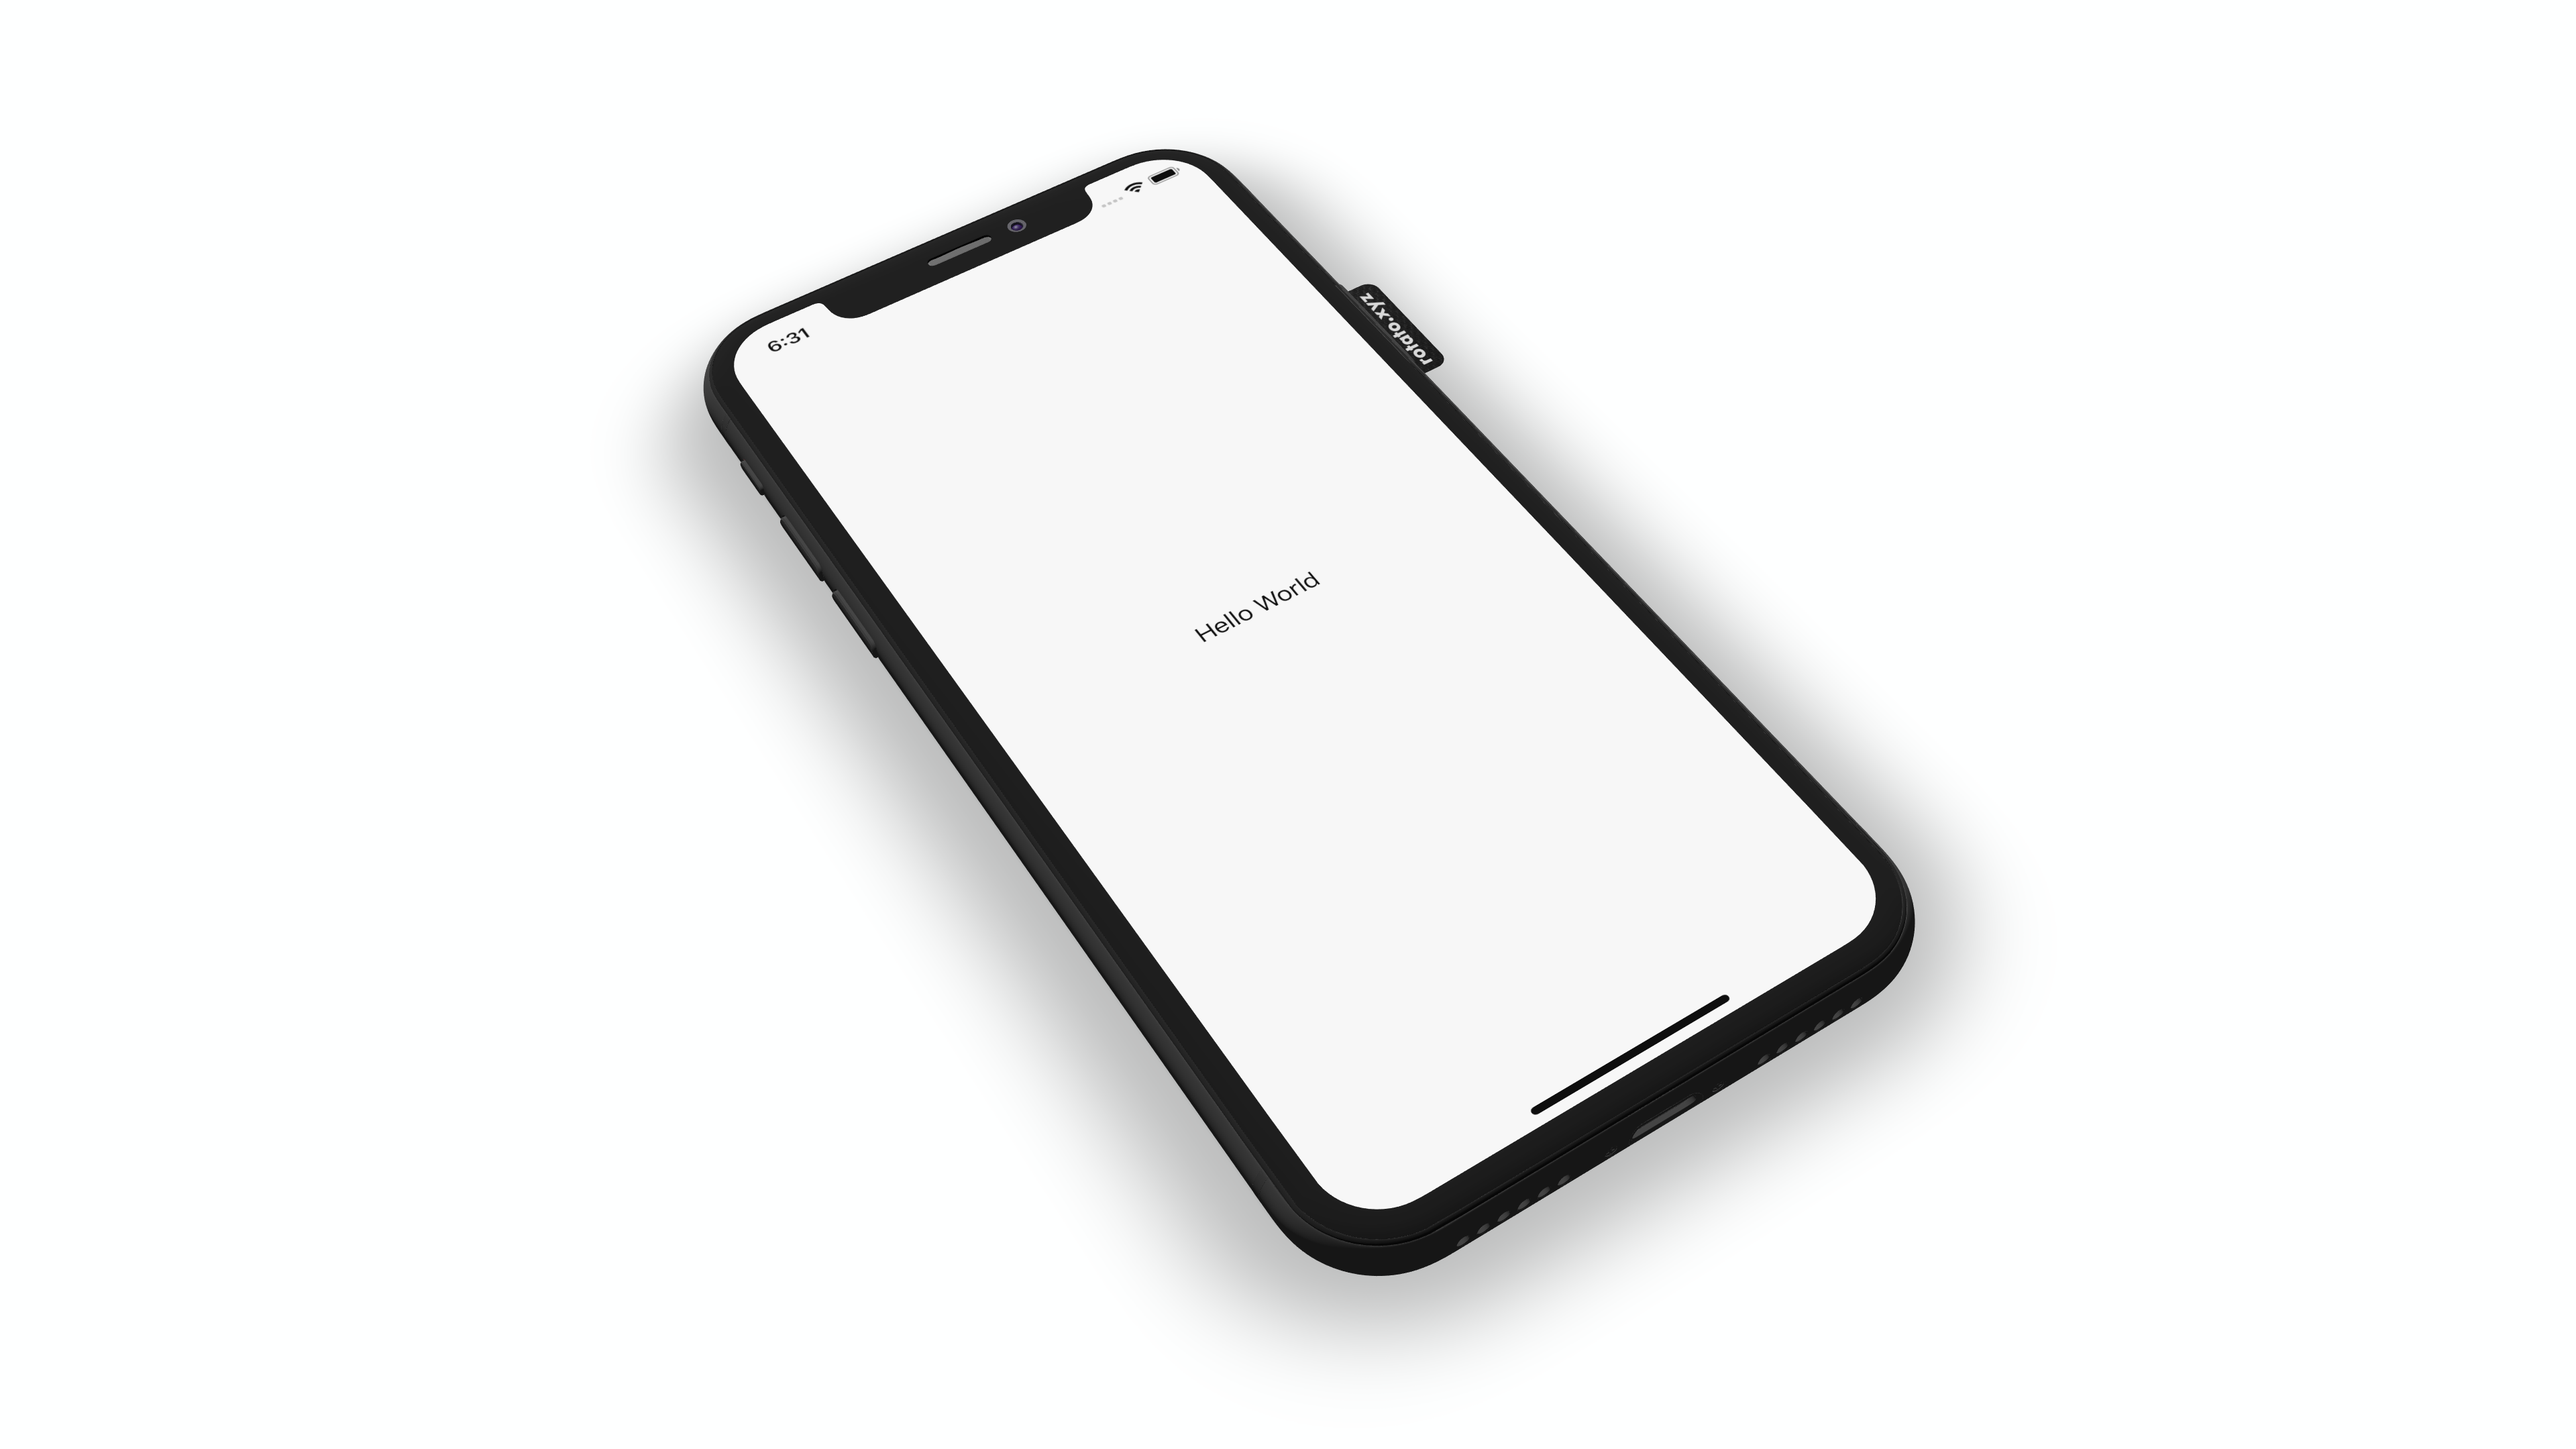
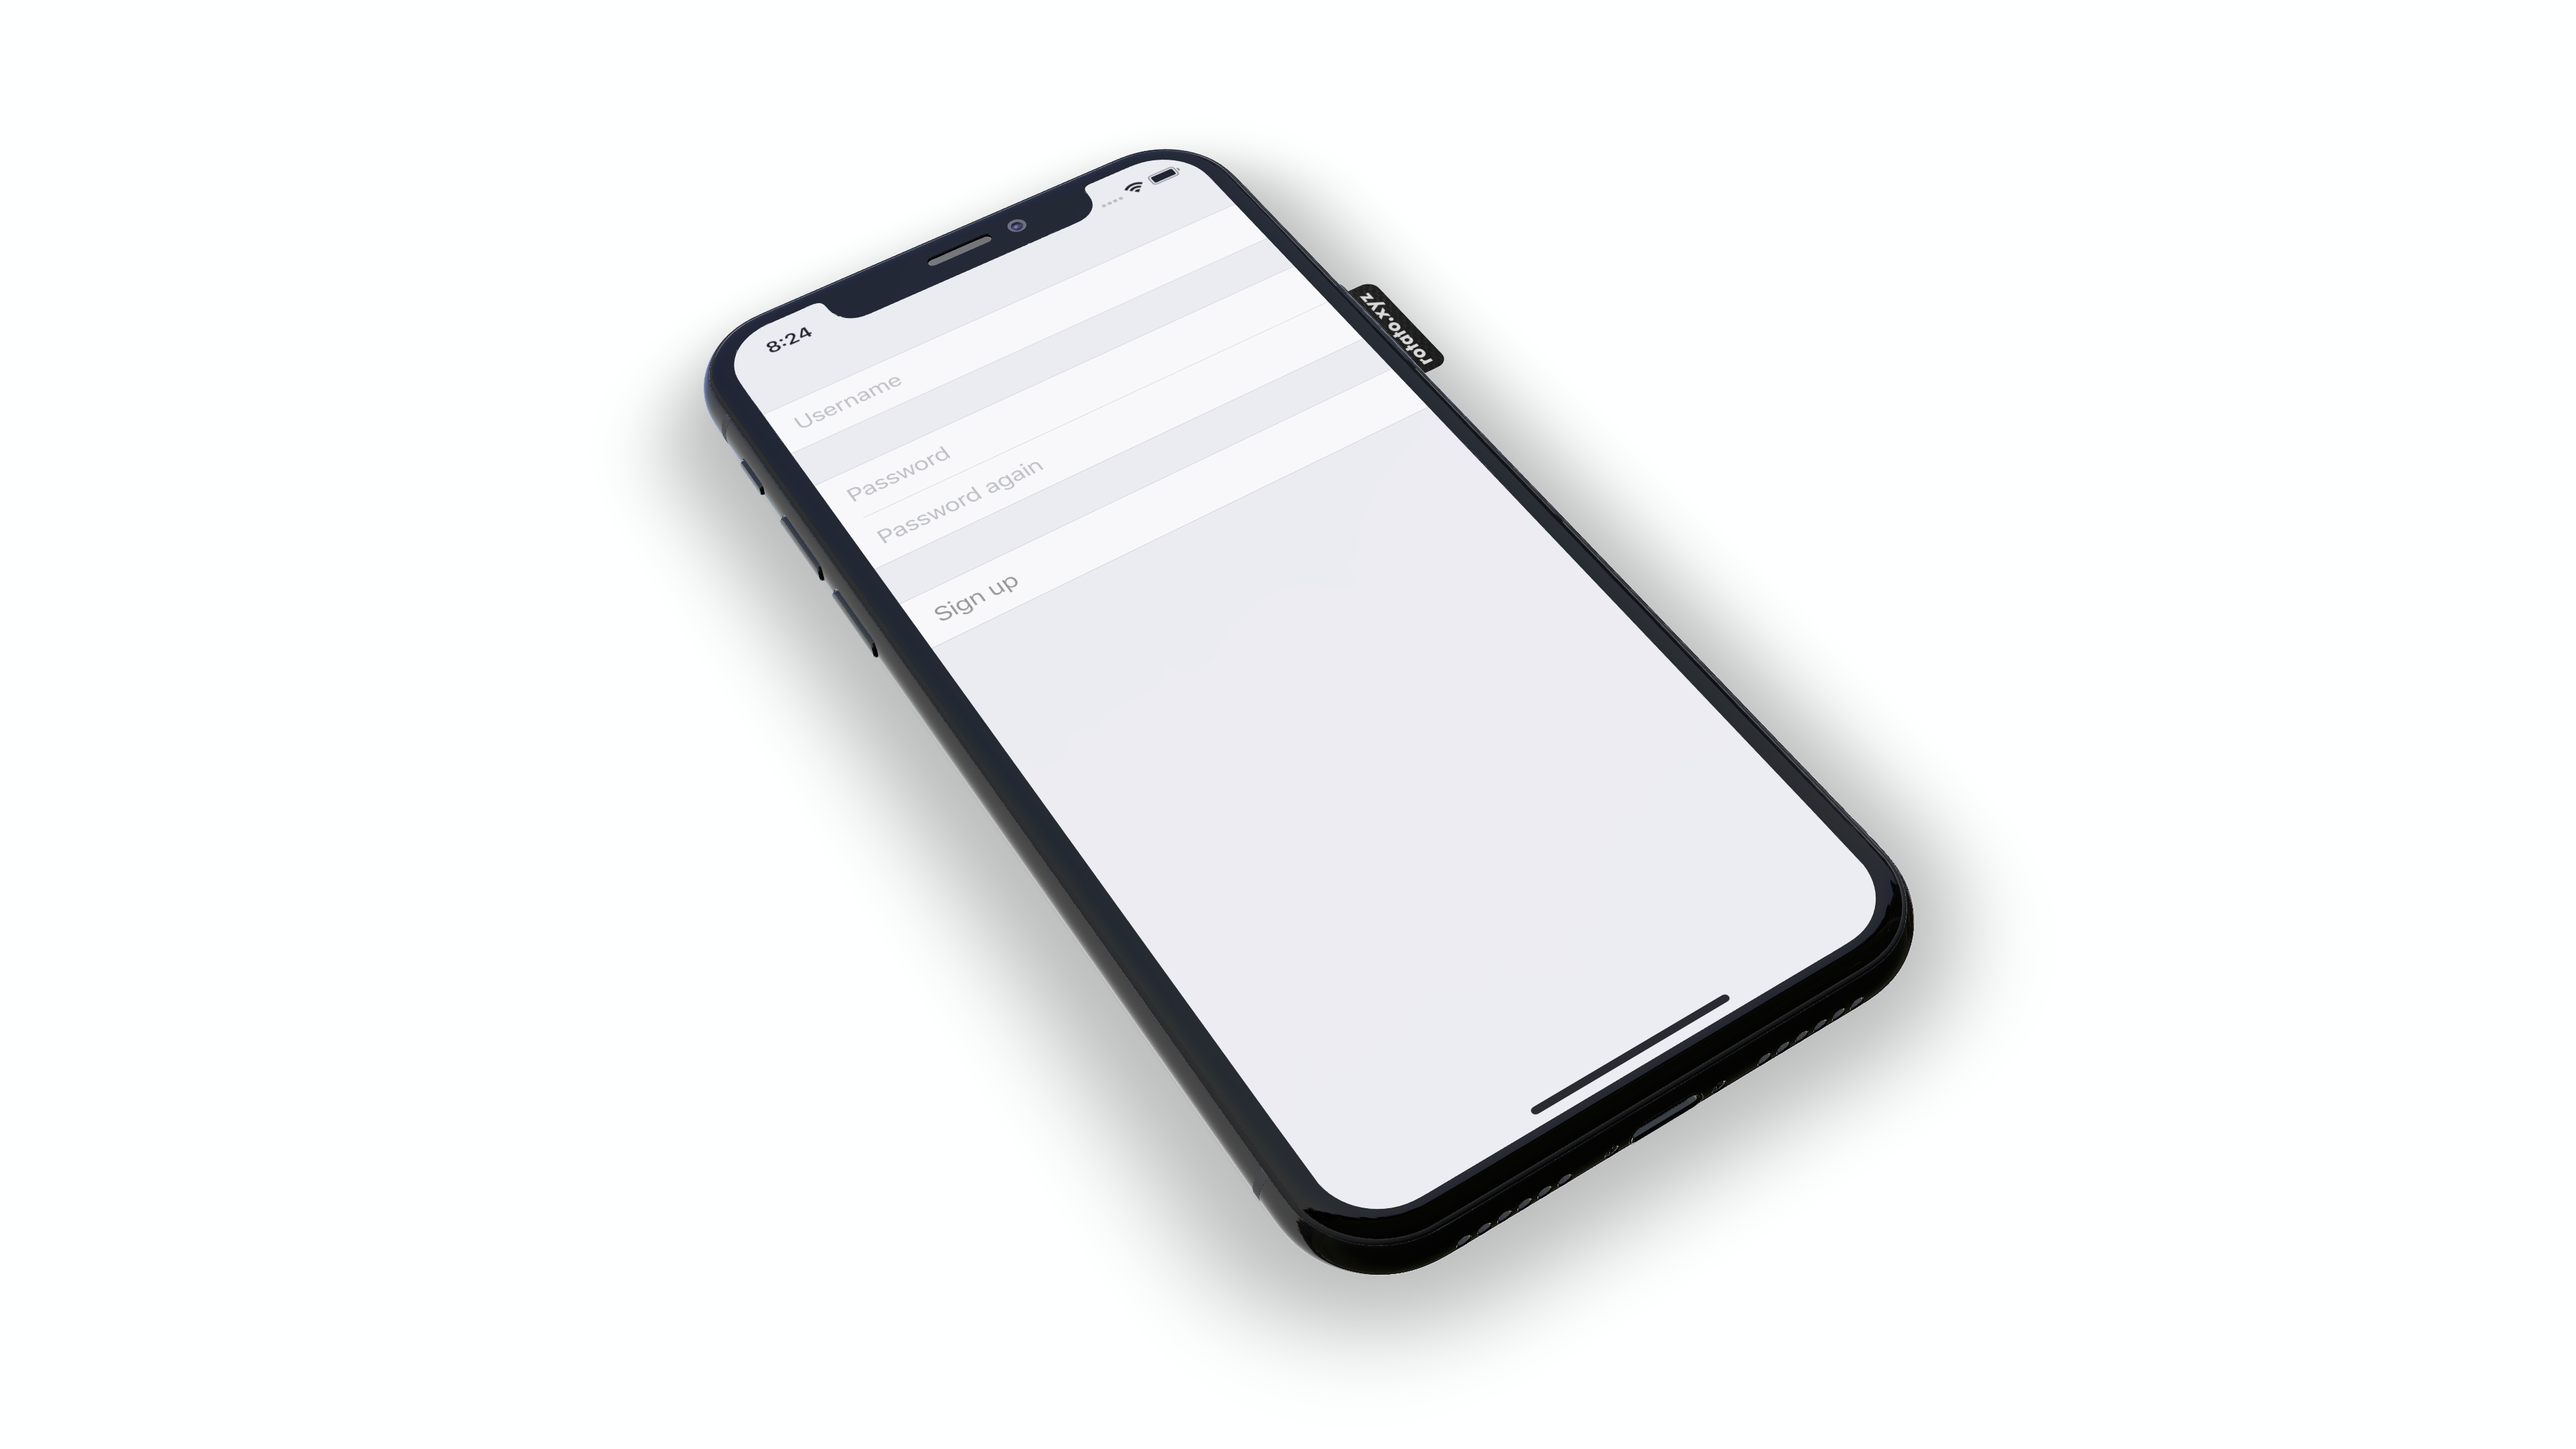
🏗 Add the initial UI

diff --git a/SwiftUI-Combine/ContentView.swift b/SwiftUI-Combine/ContentView.swift
@@ -9,11 +9,31 @@
 import SwiftUI
 
 struct ContentView: View {
+  @State private var userName = ""
+  @State private var password = ""
+  @State private var passwordAgain = ""
+  @State private var valid = false
+  
   var body: some View {
-    Text("Hello World")
+    Form {
+      Section {
+        TextField("Username", text: $userName)
+          .autocapitalization(.none)
+      }
+      Section {
+        SecureField("Password", text: $password)
+        SecureField("Password again", text: $passwordAgain)
+      }
+      Section {
+        Button(action: { }) {
+          Text("Sign up")
+        }.disabled(!valid)
+      }
+    }
   }
+  
 }
-
+  
 struct ContentView_Previews: PreviewProvider {
   static var previews: some View {
     ContentView()
